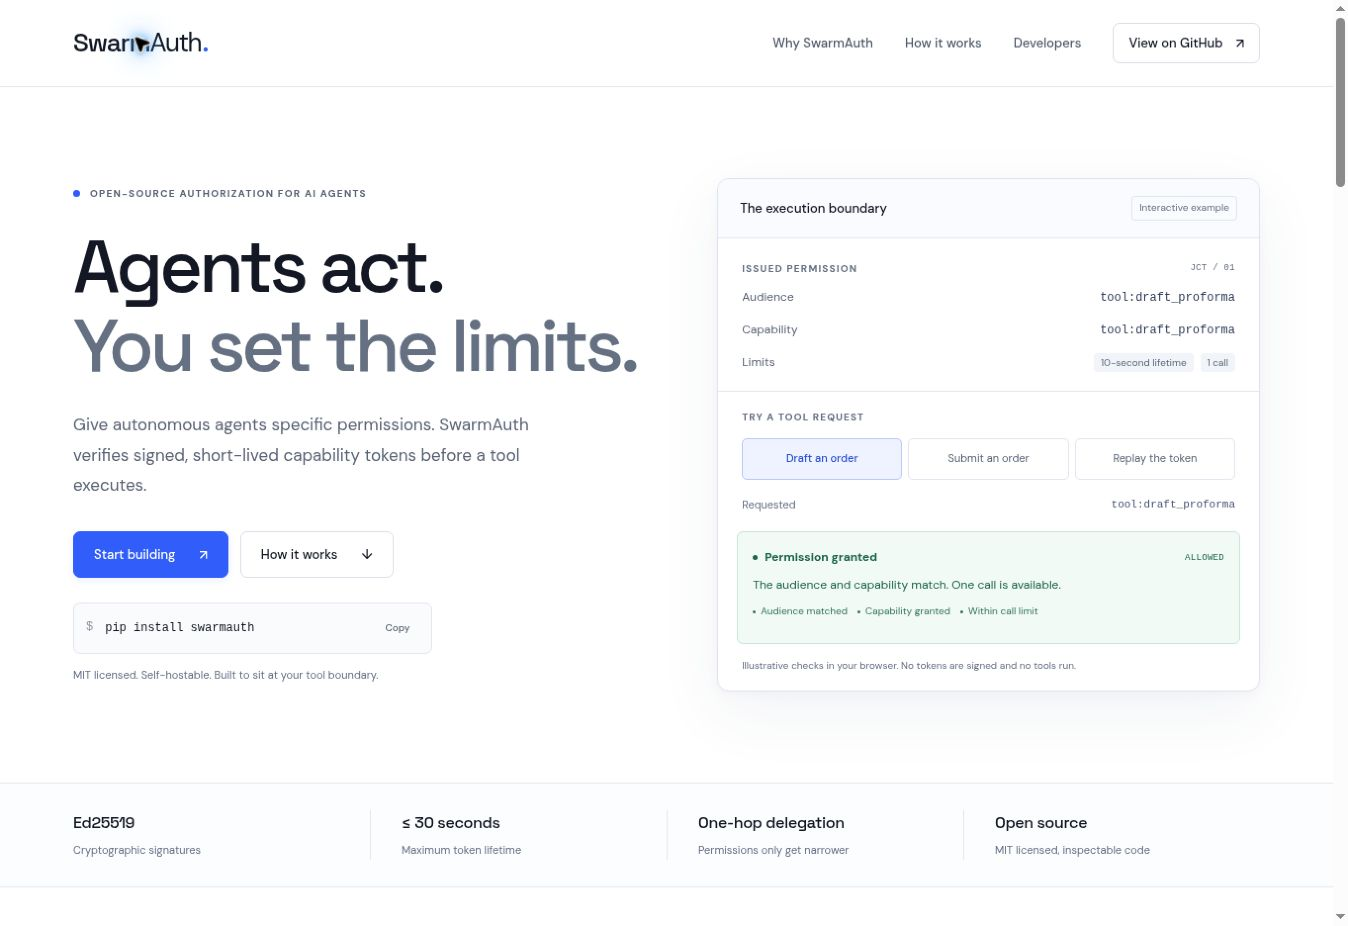
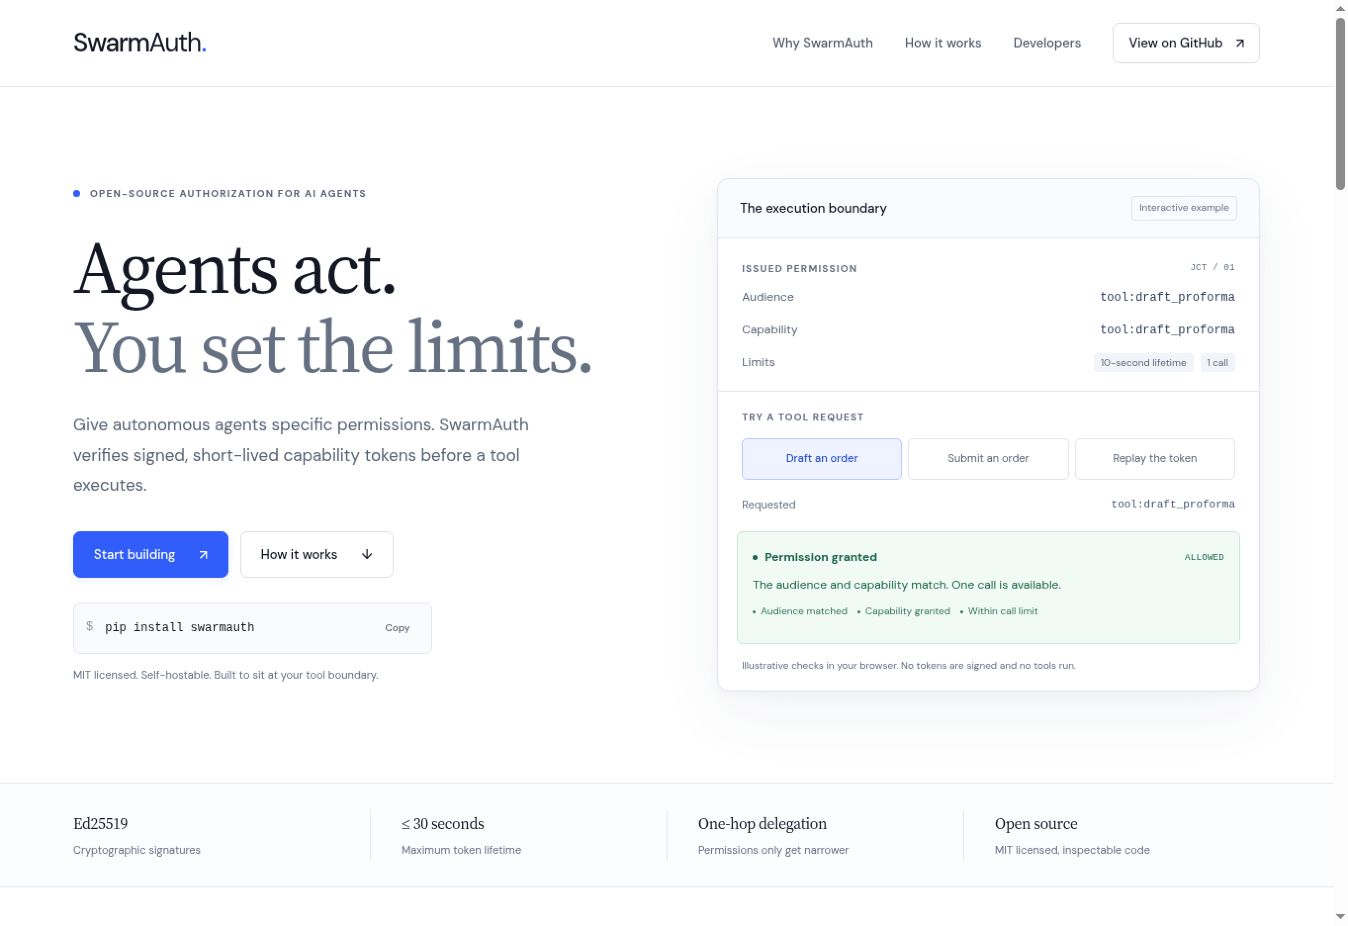
Use editorial serif typography and credit waspdrey on Pages

diff --git a/assets/site.css b/assets/site.css
@@ -20,9 +20,9 @@
   font-display: swap;
 }
 @font-face {
-  font-family: "Space Grotesk";
-  src: url("fonts/space-grotesk-medium.woff2") format("woff2");
-  font-weight: 500;
+  font-family: "Source Serif";
+  src: url("fonts/source-serif-regular.woff2") format("woff2");
+  font-weight: 400 500;
   font-style: normal;
   font-display: swap;
 }
@@ -37,7 +37,7 @@
   --wash: #f7f9fc;
   --mono: "SFMono-Regular", Consolas, "Liberation Mono", monospace;
   --body: "DM Sans", -apple-system, BlinkMacSystemFont, "Segoe UI", sans-serif;
-  --display: "Space Grotesk", var(--body);
+  --display: "Source Serif", Georgia, "Times New Roman", serif;
 }
 * {
   box-sizing: border-box;
@@ -136,7 +136,7 @@ img {
   height: 100%;
 }
 .wordmark {
-  font-family: var(--display);
+  font-family: var(--body);
   font-size: 26px;
   font-weight: 500;
   letter-spacing: -1.25px;
@@ -1869,4 +1869,15 @@ h3 {
   .code-window pre {
     font-size: 10px;
   }
+}
+
+/* Editorial serif headings with a clean sans-serif interface. */
+h1, h2 {
+  font-weight: 400;
+  letter-spacing: -0.035em;
+}
+h3 {
+  font-family: var(--display);
+  font-weight: 400;
+  letter-spacing: -0.015em;
 }

diff --git a/index.html b/index.html
@@ -33,7 +33,7 @@
     />
     <link
       rel="preload"
-      href="assets/fonts/space-grotesk-medium.woff2"
+      href="assets/fonts/source-serif-regular.woff2"
       as="font"
       type="font/woff2"
       crossorigin
@@ -707,7 +707,7 @@
         >
       </nav>
       <p class="footer-credit">
-        Built by <a href="https://github.com/waspdrey">Kelvin Laryea</a>.
+        Built by <a href="https://github.com/waspdrey">waspdrey</a>.
       </p>
     </footer>
     <p class="sr-only" id="copy-status" role="status" aria-live="polite"></p>
